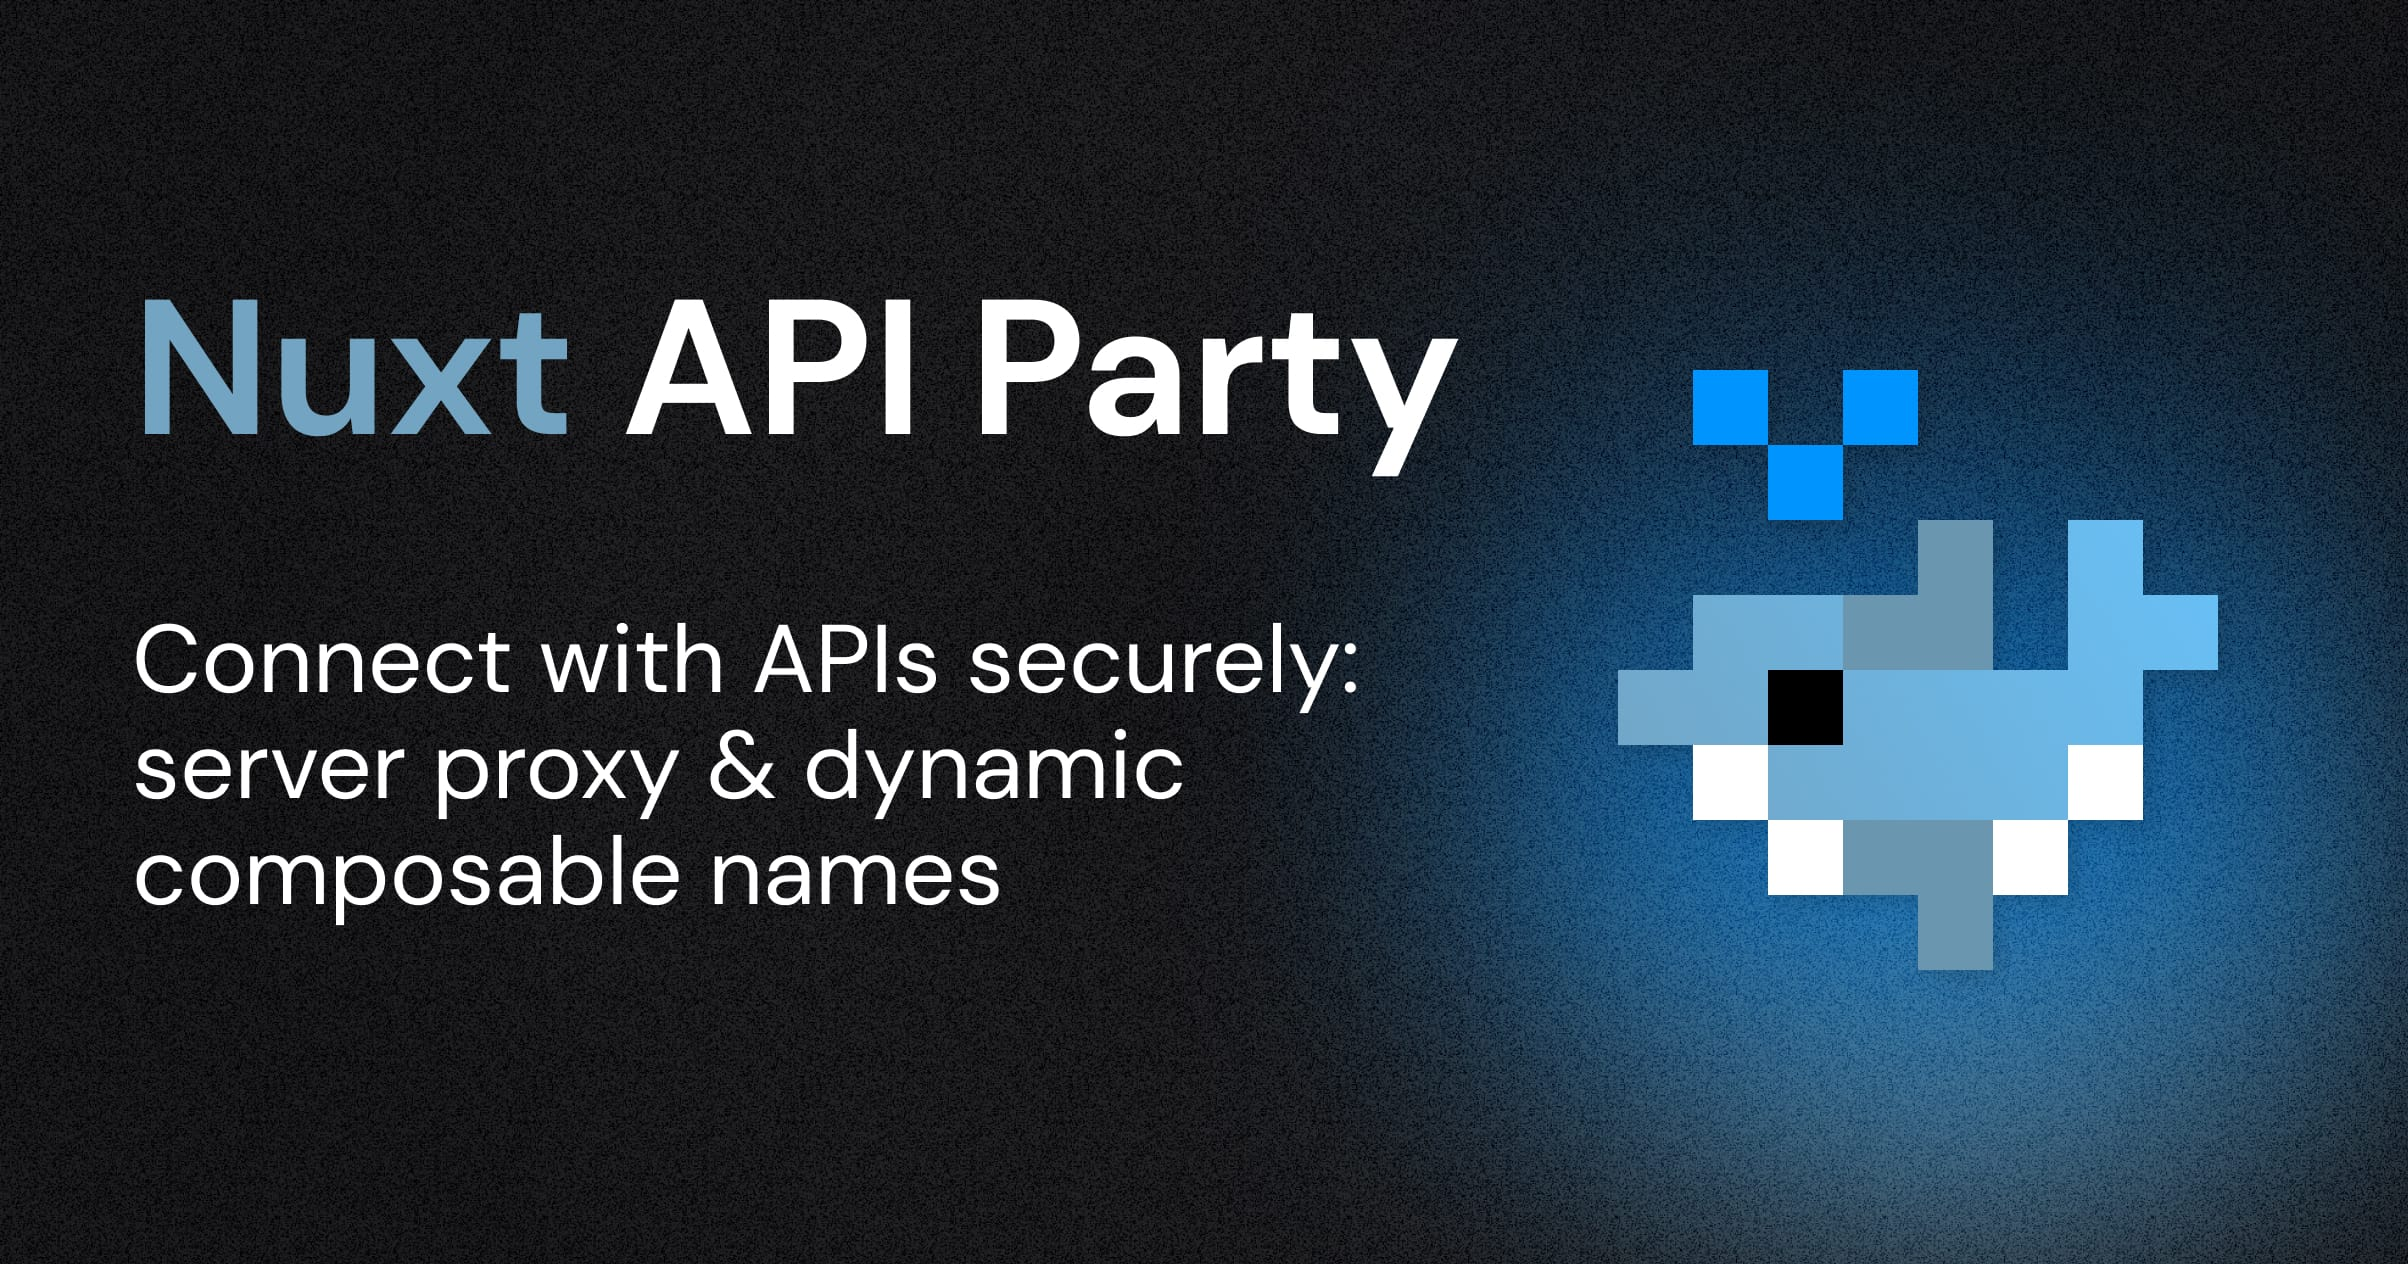
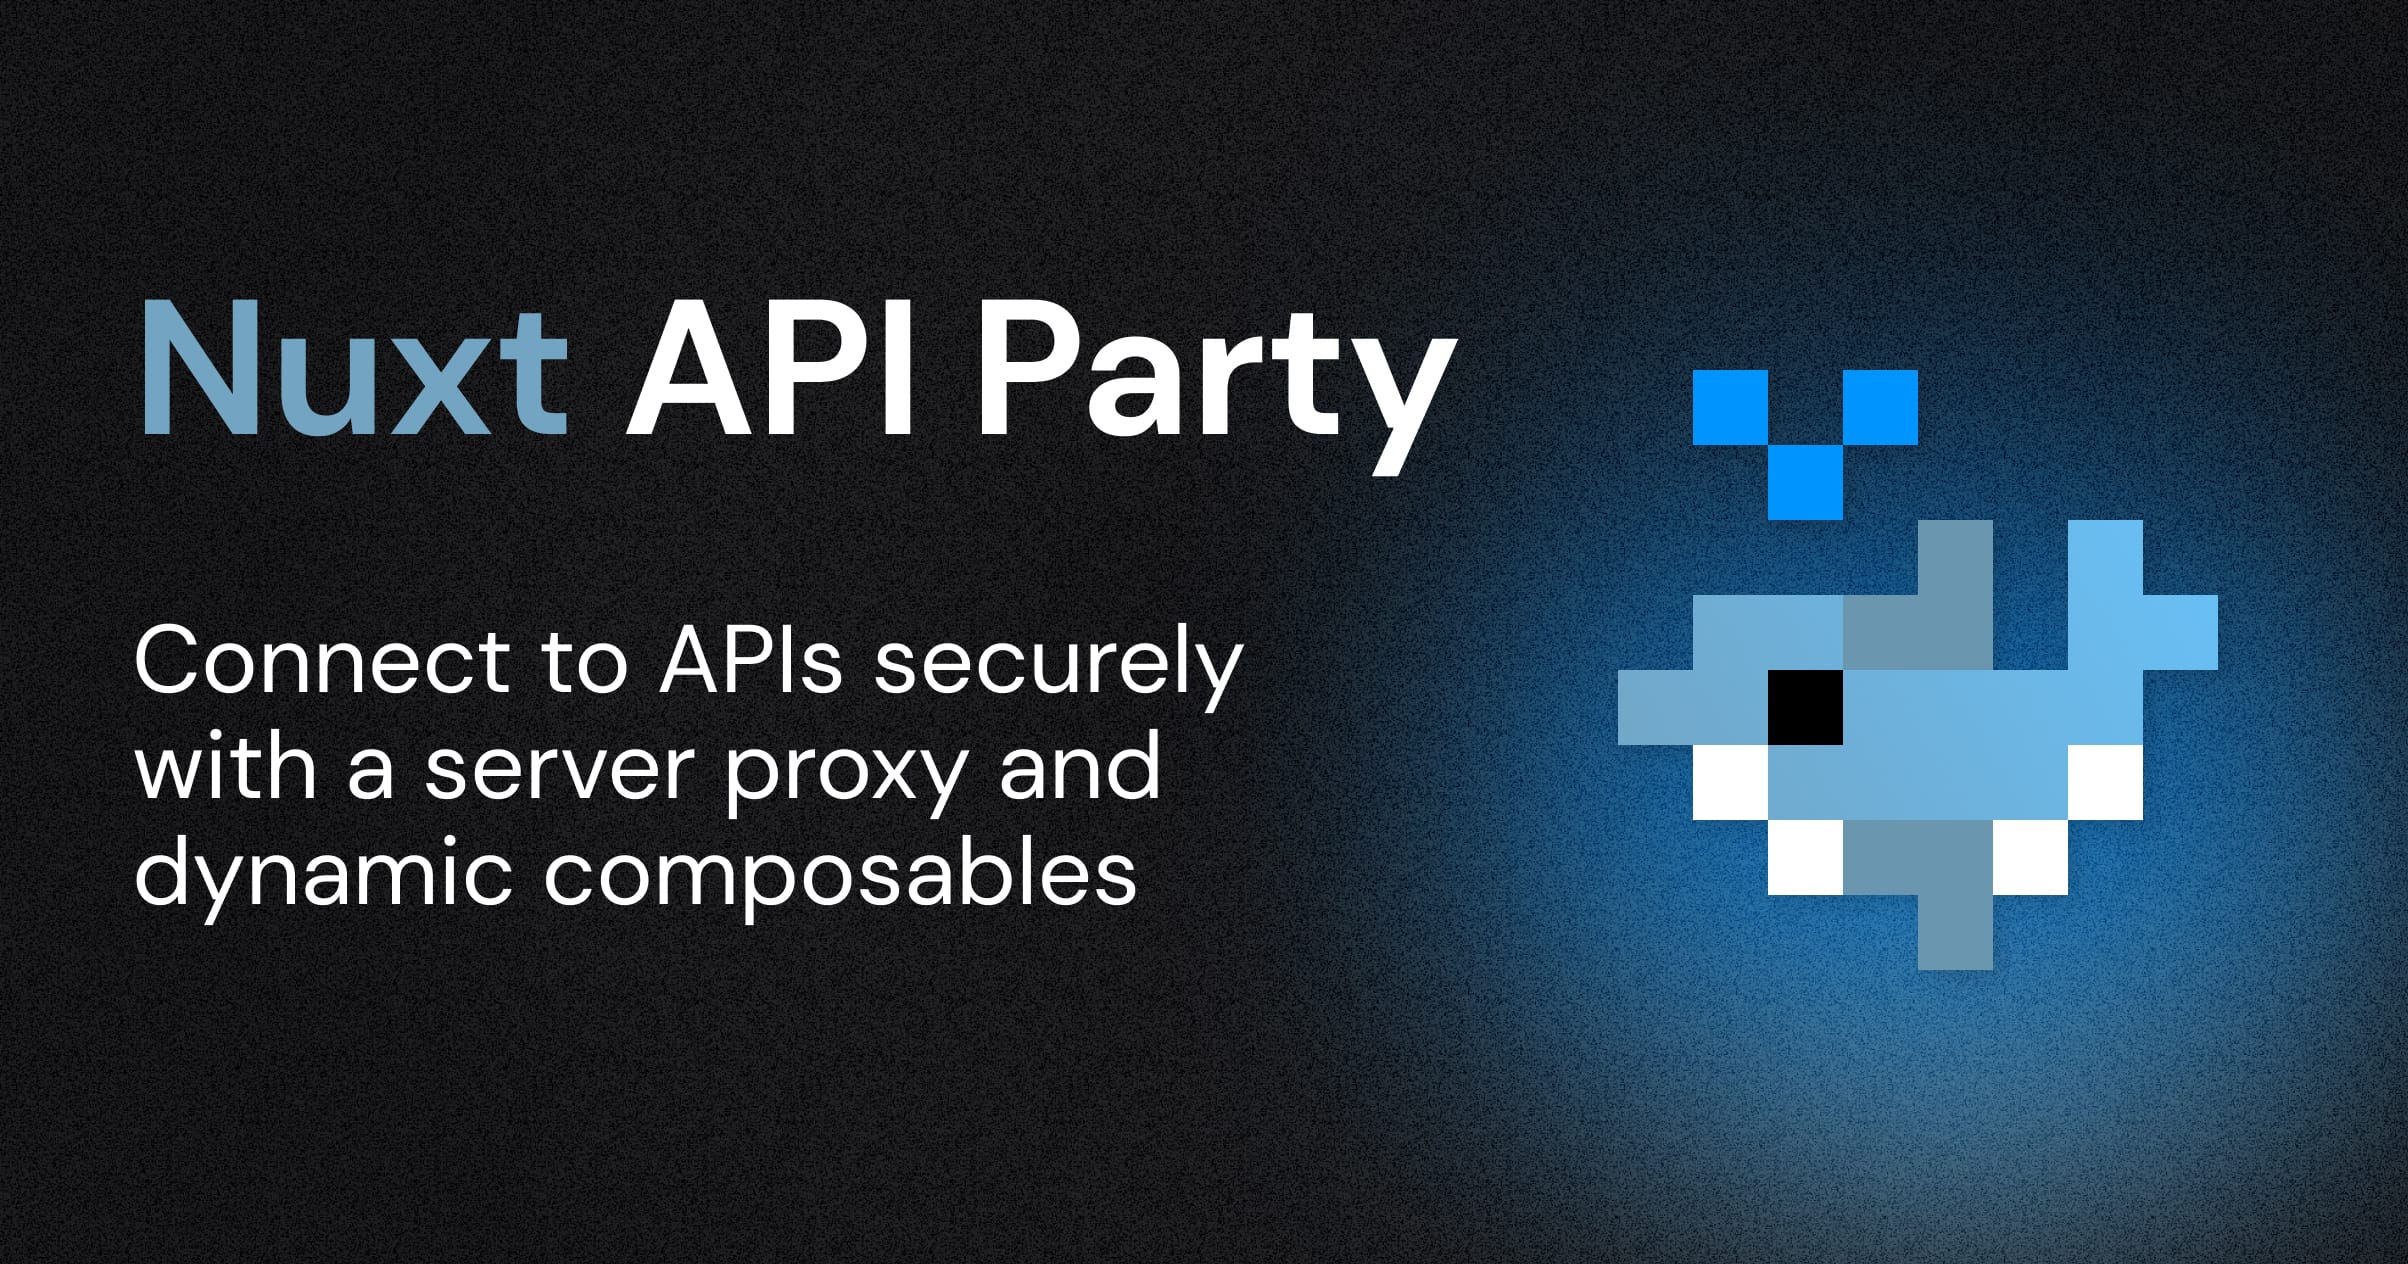
chore: update project tagline

Changed region(s): [[0.0623, 0.5862, 0.4983, 0.7405], [0.218, 0.4937, 0.5606, 0.5554]]

diff --git a/docs/.vitepress/config.ts b/docs/.vitepress/config.ts
@@ -13,7 +13,7 @@ const url = new URL(ogUrl)
 export default defineConfig({
   lang: 'en-US',
   title: name,
-  description: 'Connect with any API securely',
+  description: 'Connect to any API securely',
   head: [
     ['link', { rel: 'icon', href: '/logo.svg', type: 'image/svg+xml' }],
     ['meta', { name: 'author', content: 'Johann Schopplich' }],

diff --git a/README.md b/README.md
@@ -4,14 +4,14 @@
 
 [![npm version](https://img.shields.io/npm/v/nuxt-api-party?color=a1b858&label=)](https://www.npmjs.com/package/nuxt-api-party)
 
-[Nuxt](https://nuxt.com) module to securely connect with any API.
+[Nuxt](https://nuxt.com) module to securely connect to any API.
 
 - [✨ &nbsp;Release Notes](https://github.com/johannschopplich/nuxt-api-party/releases)
 - [📖 &nbsp;Read the documentation](https://nuxt-api-party.byjohann.dev)
 
 ## Features
 
-- 🪅 [Dynamic composable names](https://nuxt-api-party.byjohann.dev/api/#dynamic-composables)
+- 🪅 [Dynamic composables](https://nuxt-api-party.byjohann.dev/api/#dynamic-composables)
 - 🔒 Protected API credentials in the client
 - 🪢 Token-based authentication built-in or bring your own headers
 - 🧇 [Connect multiple API endpoints](#basic-usage)

diff --git a/docs/index.md b/docs/index.md
@@ -3,12 +3,12 @@ layout: home
 sidebar: false
 
 title: nuxt-api-party
-titleTemplate: Connect with any API securely
+titleTemplate: Connect to any API securely
 
 hero:
   name: nuxt-api-party
-  text: Connect with any API securely
-  tagline: Server proxy & dynamic composable names
+  text: Connect to any API securely
+  tagline: Server proxy and dynamic composables
   image:
     src: /logo-shadow.svg
     alt: nuxt-api-party
